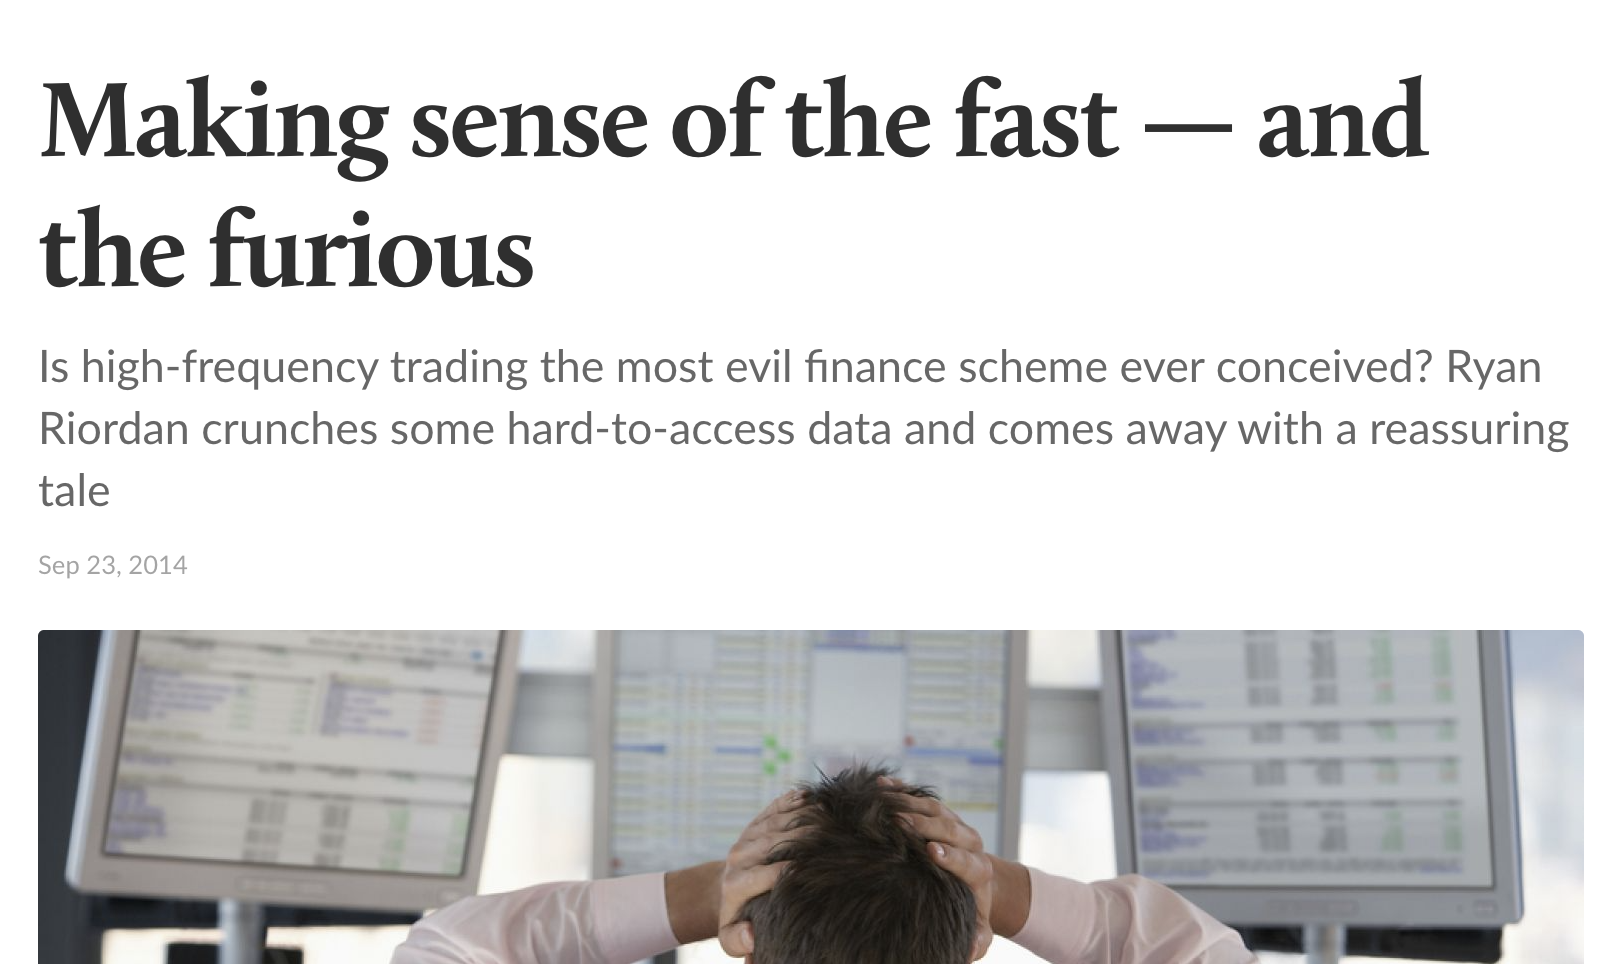
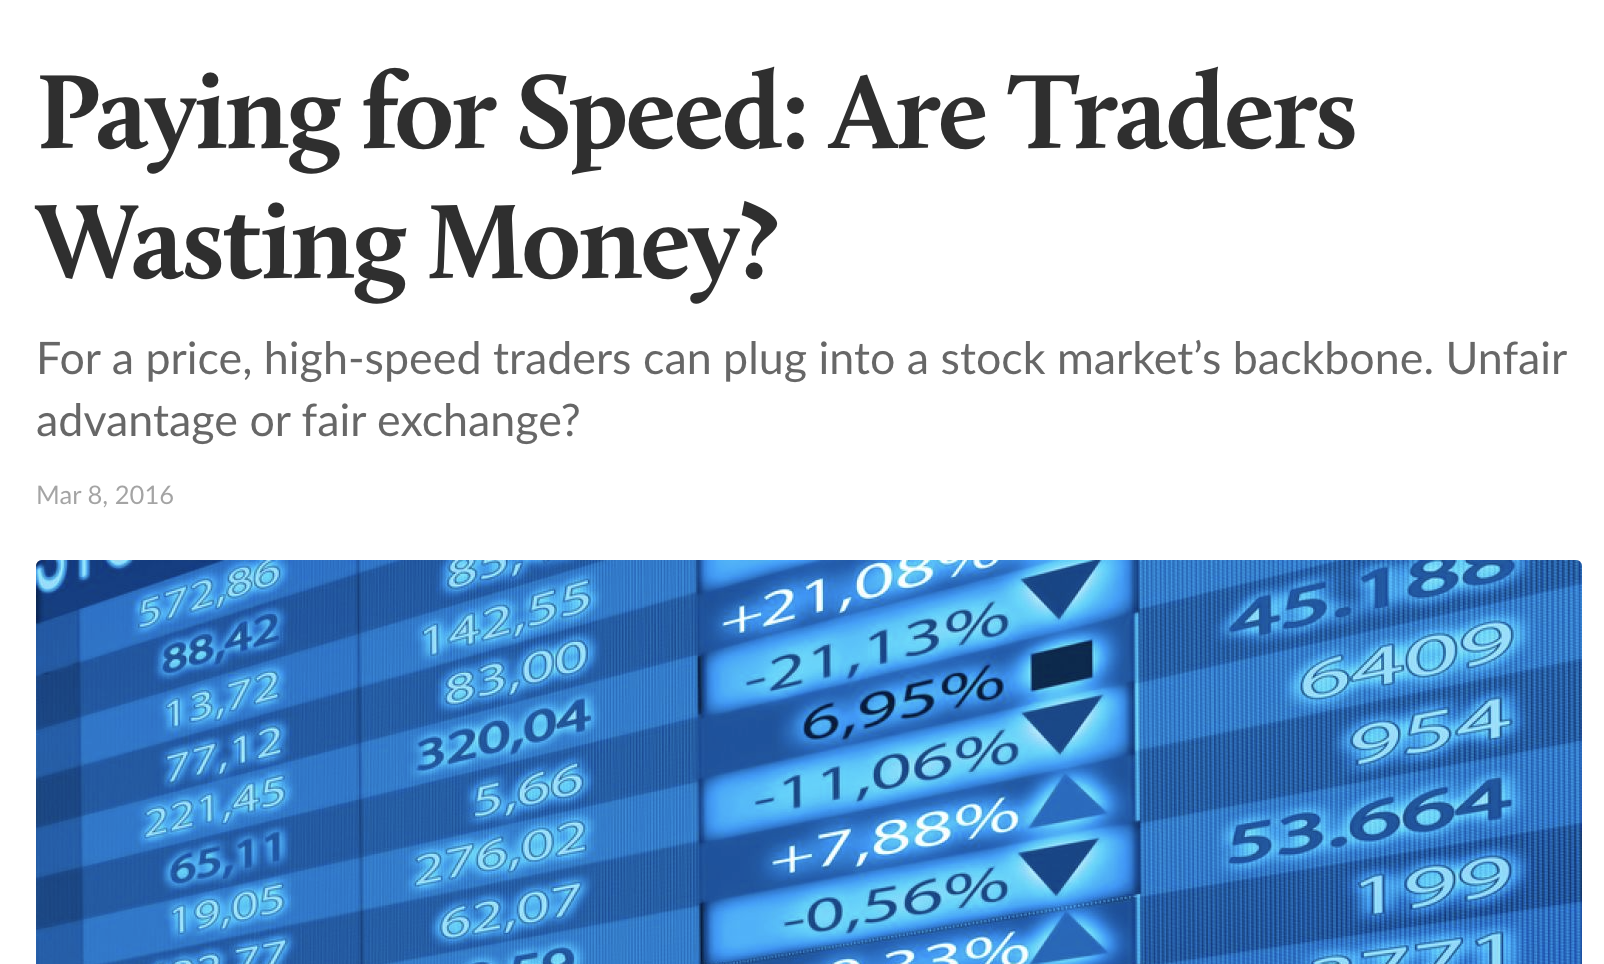
debug

diff --git a/content/project/HFT_Sharratt2_s6 copy/index.md b/content/project/HFT_Sharratt2_s6 copy/index.md
@@ -1,17 +1,17 @@
 ---
-title: Making Sense of the Fast — and the Furious
+title: Paying for Speed: Are Traders Wasting Money?
 author: Anna Sharratt 
-summary: Is high-frequency trading the most evil finance scheme ever conceived? Ryan Riordan crunches some hard-to-access data and comes away with a reassuring tale. </br><i>Sep 23, 2014, Anna Sharratt</i>
+summary: For a price, high-speed traders can plug into a stock market’s backbone. Unfair advantage or fair exchange? </br><i>Mar 8, 2016, Anna Sharratt</i>
 
 tags:
 - session6
 - HFTs6
 - reading
 
-date: "2014-09-23T00:00:00Z"
+date: "2016-03-08T00:00:00Z"
 
 # Optional external URL for project (replaces project detail page).
-external_link: "https://smith.queensu.ca/insight/content/making-sense-of-the-fast--and-the-furious.php"
+external_link: "https://smith.queensu.ca/insight/content/paying_for_speed_are_traders_wasting_money.php"
 
 image:
   caption: 
